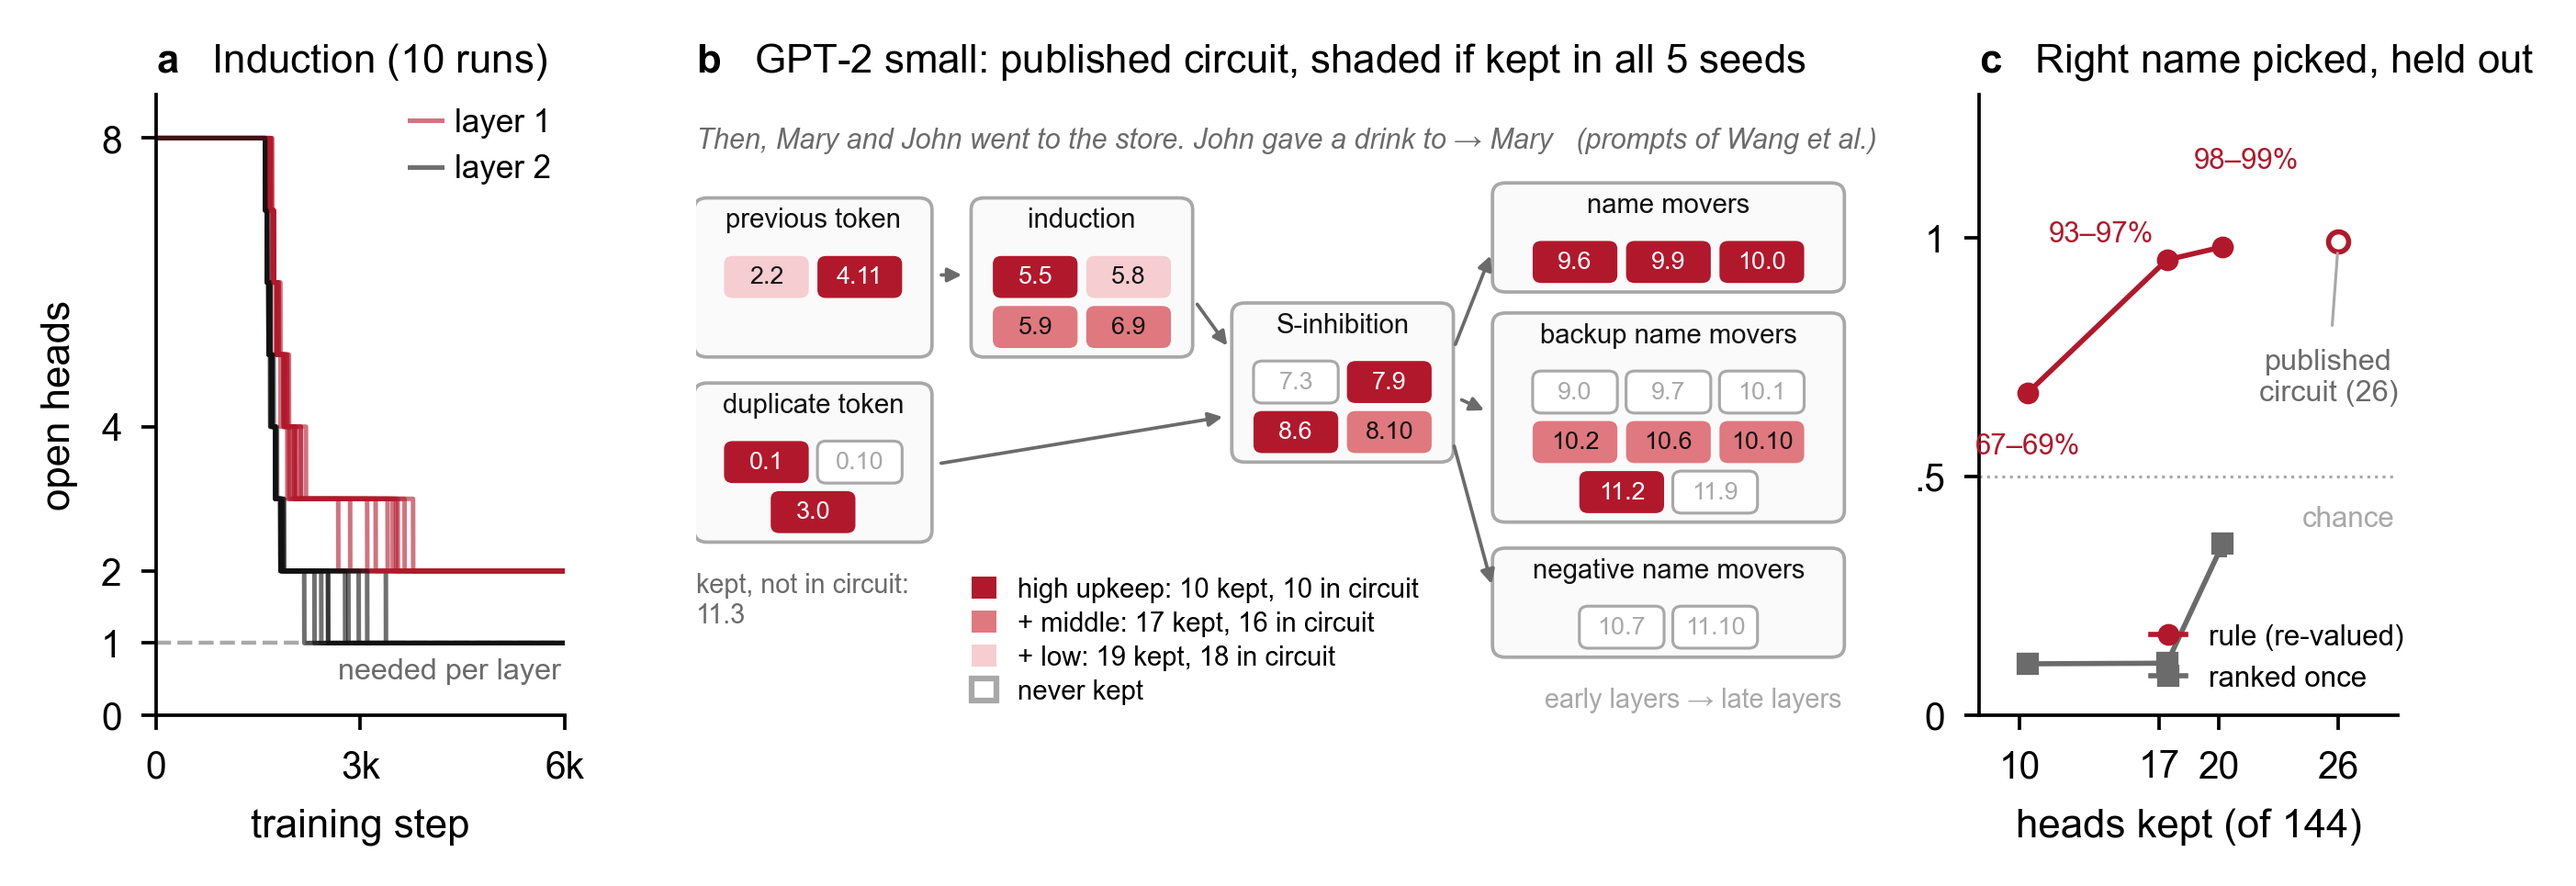
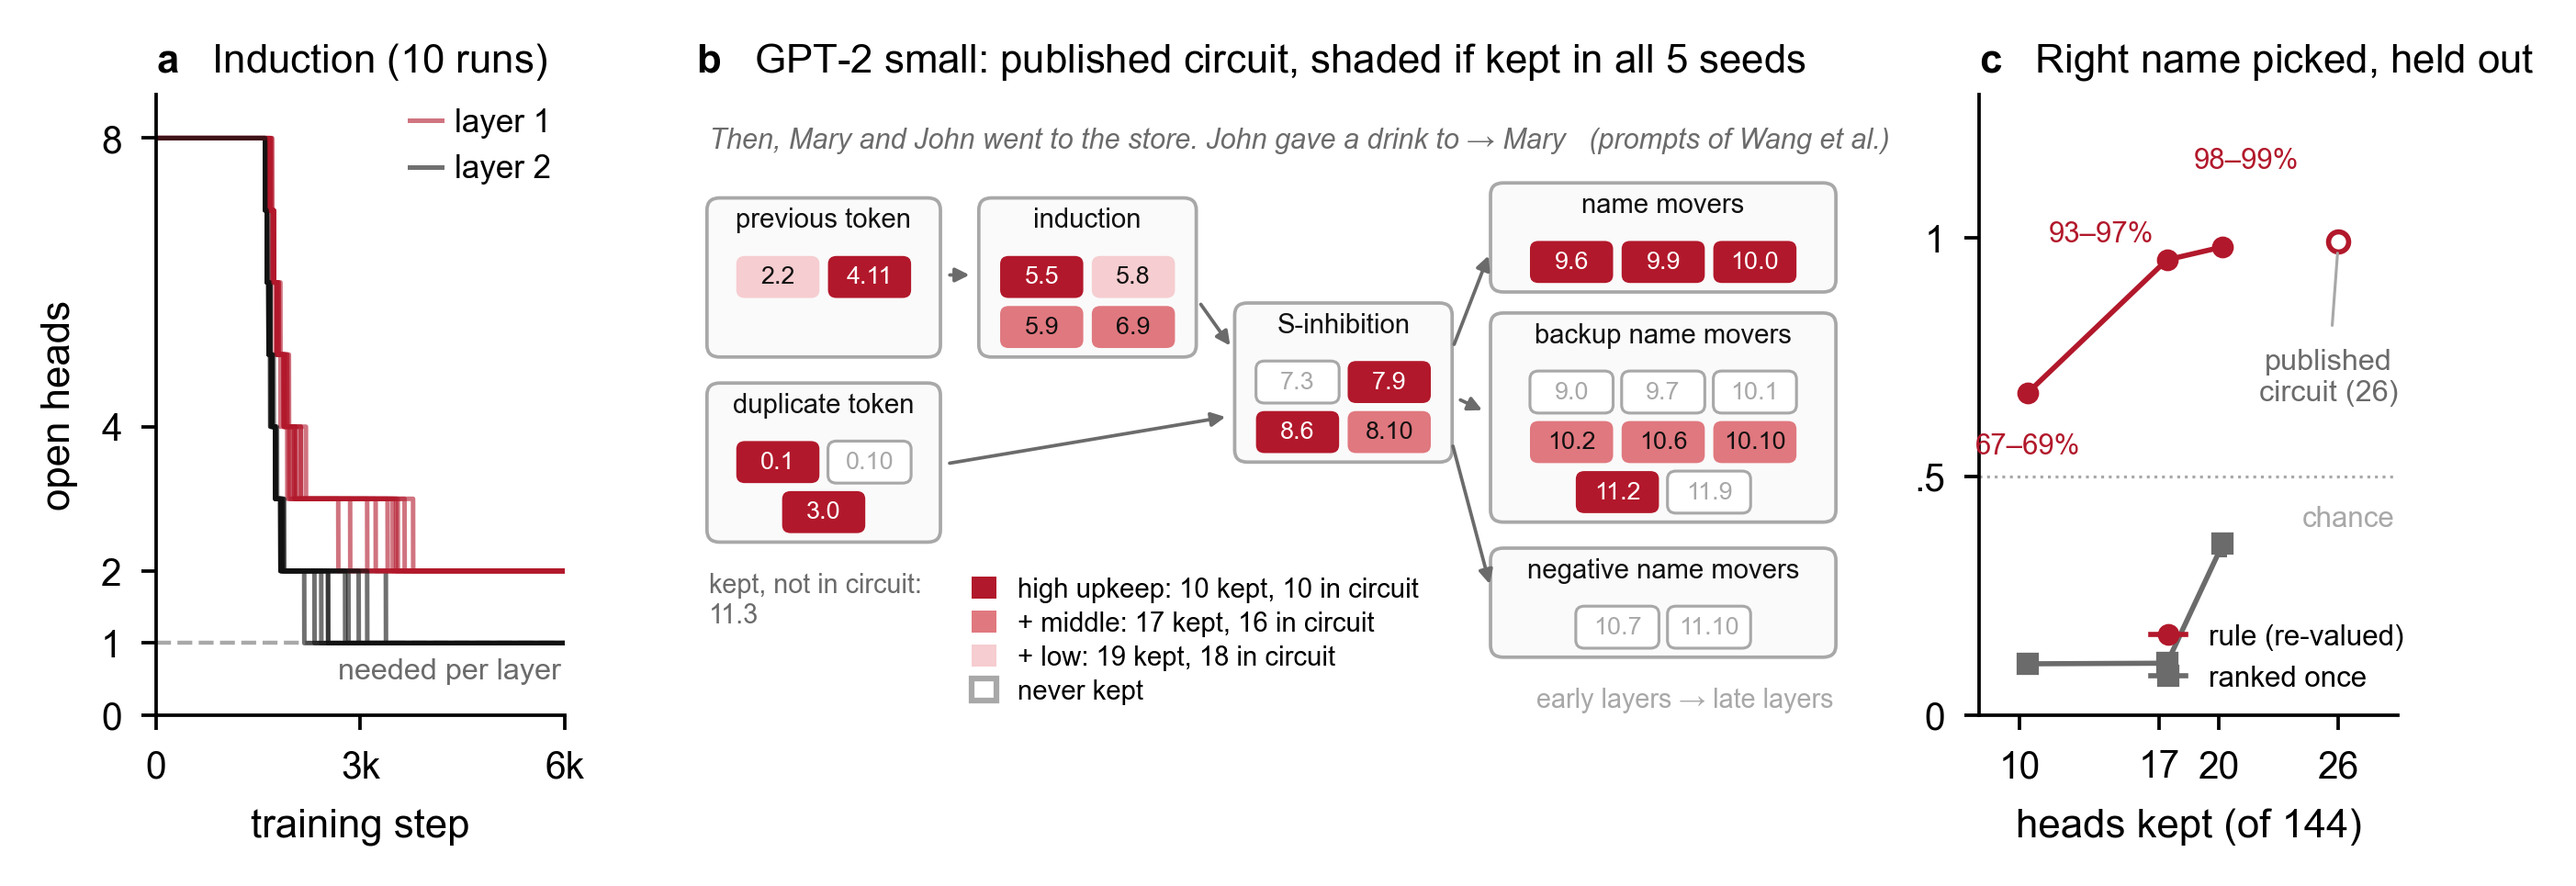
Workshop paper: unclipped GPT-2 panel, training settings stated, untuned-settings note

diff --git a/paper/neuroai/main_simple.tex b/paper/neuroai/main_simple.tex
@@ -125,7 +125,7 @@ collaterals where occlusion likely & backups where failure likely \\
 
 \paragraph{Collateral value.} For the set $S$ of open heads, let $L^\ast(S)=\min_{W_O} L$ be the loss after the output weights of the heads in $S$ are re-fitted. The value of an open head is $v_h=L^\ast(S\setminus h)-L^\ast(S)$ and the gain of a closed head is $L^\ast(S)-L^\ast(S\cup h)$, both in closed form from the heads' output covariance. This is the Optimal Brain Surgeon score \citep{obs} for whole heads, as in ZipLM \citep{ziplm}; what is new is how it is used. If two heads output the same signal, the survivor takes over its twin's weight and the loss does not change, so a copy is worth nothing.
 
-\paragraph{Schedule.} All valves start open. After a warm-up of 10\% of training, every 25 steps the rule closes the lowest-valued open head if $v_h<\pi$, and otherwise reopens the highest-gain closed head if its gain exceeds $2\pi$. A closing valve falls by $1/100$ per step, so a head regresses while the others adapt. The upkeep is $\pi=0.03\,\Ltriv$, where $\Ltriv$ is the loss of predicting the mean.
+\paragraph{Schedule.} All valves start open. After a warm-up of 10\% of training, every 25 steps the rule closes the lowest-valued open head if $v_h<\pi$, and otherwise reopens the highest-gain closed head if its gain exceeds $2\pi$. A closing valve falls by $1/100$ per step, so a head regresses while the others adapt. These settings were not tuned. The upkeep is $\pi=0.03\,\Ltriv$, where $\Ltriv$ is the loss of predicting the mean.
 
 \paragraph{The rule optimizes an objective.} Let $J(S)=L^\ast(S)+\pi|S|$, the loss plus the upkeep of the open heads, the form of Murray's cost (Figure~\ref{fig:murray}b).
 \begin{proposition}
@@ -140,7 +140,7 @@ The task adapts sparse retrieval \citep{sanford2023representational} so that the
 L^\ast(k)=\left(1-k/R\right)\Ltriv ,
 \label{eq:law}
 \end{equation}
-confirmed on trained models to within $0.003\,\Ltriv$ (Figure~\ref{fig:task}c). Each needed head is worth $\Ltriv/R$ and each copy $0$, so Proposition~1 predicts exactly $\kstar=R$ heads for any $\pi<\Ltriv/R$, and above it a collapse to the single head the rule never closes. The model is one cross-attention layer with $H=32$ heads, width 128 and no MLP. The task is solved when the loss is below $0.02\,\Ltriv$. \emph{Exact count} means the open heads over the last 40\% of training equal $\kstar$; \emph{stayed solved} means that once solved, the loss never rises above the bar again.
+confirmed on trained models to within $0.003\,\Ltriv$ (Figure~\ref{fig:task}c). Each needed head is worth $\Ltriv/R$ and each copy $0$, so Proposition~1 predicts exactly $\kstar=R$ heads for any $\pi<\Ltriv/R$, and above it a collapse to the single head the rule never closes. The model is one cross-attention layer with $H=32$ heads, width 128 and no MLP, trained with AdamW (learning rate $2\times10^{-3}$, batch 128, 4000 steps). The task is solved when the loss is below $0.02\,\Ltriv$. \emph{Exact count} means the open heads over the last 40\% of training equal $\kstar$; \emph{stayed solved} means that once solved, the loss never rises above the bar again.
 
 \section{Results}
 
@@ -167,16 +167,16 @@ $L_0$ gates, strong penalty & no & 9 & 0 \\
 \label{tab:methods}
 \end{table}
 
-\paragraph{Exact count while the task stays solved.} The rule kept exactly $\kstar$ heads in 29 of 30 runs, and the loss never left the solved range (Figure~\ref{fig:results}a, Table~\ref{tab:methods}). No published method did both. Michel et al.\ and ZipLM, given the true count, lost the solution during pruning in every run: the loss rose to a median of $0.52$ and $0.38\,\Ltriv$ before further training recovered it, and all runs ended solved. ZipLM uses our score, so its failure lies in how the score is used: all at once, without a fade. $L_0$ gates trade one failure for the other: a weak penalty kept the loss near the bar but never reached the count, and a strong one reached it in 9 runs but left 26 of 30 unsolved at the end. Removing one part at a time: without the fade the solution was lost, as with a vessel cut rather than regressed; without the re-fit the rule valued copies and kept too many heads; with a random choice of head the solution was lost in 24 of 30 runs. Deleting the closed heads leaves 6--25\% of the model's parameters (30\% for induction).
+\paragraph{Exact count while the task stays solved.} The rule kept exactly $\kstar$ heads in 29 of 30 runs, and the loss never left the solved range (Figure~\ref{fig:results}a, Table~\ref{tab:methods}). No published method did both. Michel et al.\ and ZipLM, given the true count, lost the solution during pruning in every run: the loss rose to a median of $0.52$ and $0.38\,\Ltriv$ before further training recovered it, and all runs ended solved. ZipLM uses our score, so its failure lies in how the score is used: all at once, without a fade. $L_0$ gates trade one failure for the other: a weak penalty kept the loss near the bar but never reached the count, and a strong one reached it in 9 runs but left 26 of 30 unsolved at the end. Removing one part at a time: without the fade the solution was lost, as with a vessel cut rather than regressed; without the re-fit the rule valued copies and kept too many heads; with a random choice of head the solution was lost in 24 of 30 runs. Deleting closed heads leaves 6--25\% of the parameters.
 
-\paragraph{The upkeep does not set the size, until theory says it should.} Every upkeep from $0.01$ to $0.1\,\Ltriv$ gave the exact count. Above $\pi=\Ltriv/R$ every needed head costs more than it saves, so the rule should close down to one head. All 18 runs below this point kept exactly $\kstar$ heads and all 18 above it kept one (Figure~\ref{fig:results}b), with final losses $0.50$, $0.75$ and $0.875\,\Ltriv$, Equation~\eqref{eq:law} at $k=1$.
+\paragraph{The upkeep does not set the size, until theory says it should.} Every upkeep from $0.01$ to $0.1\,\Ltriv$ gave the exact count. Above $\pi=\Ltriv/R$ every needed head costs more than it saves, so the rule should close down to one head. All 18 runs below this point kept exactly $\kstar$ heads and all 18 above it kept one (Figure~\ref{fig:results}b), with the final loss Equation~\eqref{eq:law} gives for one head.
 
 \paragraph{A third prediction: redundancy under failure.} The objective also says how much redundancy to keep. If each head fails independently with probability $p$ at every training step, the value of the $B$-th head is $v(B)=\frac{1-p}{R}\Pr[\mathrm{Bin}(B-1,1-p)<R]\,\Ltriv$: it pays only when it works and fewer than $R$ of the others do, a $k$-out-of-$n$ calculation from reliability theory \citep{barlow1965reliability}, and the rule should keep the largest $B$ with $v(B)\ge\pi$. There is no free parameter. We committed predictions for 100 new runs before starting them, over $\kstar=2,4,8$, $p$ from 0.05 to 0.3 and two upkeeps. 79 matched exactly and all 100 were within one head; keeping $\kstar$ heads, or enough that $\kstar$ work on average, would match 4 and about 33. This tests the objective where the answer is known; it is not a claim about language models.
 
 
 \paragraph{Induction.} A two-layer attention-only model with $8+8$ heads was trained to continue a repeated sequence. Its known circuit is a previous-token head in layer 1 and an induction head in layer 2 \citep{olsson2022}. Cross-entropy has no closed-form re-fit, so here a head is valued by the loss without it. The rule kept $2+1$ heads with the expected roles in 10 of 10 runs, and the task stayed solved (Figure~\ref{fig:circuits}a). The second layer-1 head acts as a backup, cutting errors on the repeat from 1 in 8 to 1 in 200. Switching off the layer-2 head dropped accuracy from 99.9\% to chance.
 
-\paragraph{GPT-2 small.} We applied the rule to the 144 heads of GPT-2 small on indirect object identification (``Then, Mary and John went to the store. John gave a drink to'' $\to$ ``Mary''), whose 26-head circuit was found by hand \citep{wang2023interpretability}. The weights were frozen, so this tests the valuing and re-valuing alone, without fade or reopening. Each of 5 seeds draws 300 prompts to choose heads and 1500 held-out prompts from the generator of \citet{wang2023interpretability}. A closed head is replaced by its mean output on prompts with three different names, and the upkeep is a fraction (0.05, 0.02, 0.01) of the loss gap between all heads closed and all open. Head values here are graded, without the benchmark's gap, so the upkeep acts as a dial. The rule kept 10--11, 17--18 and 20--21 heads at the three upkeeps, nested in every seed (Figure~\ref{fig:circuits}b). Of the heads kept, 94--100\% were in the published circuit; 19 were kept in all 5 seeds, the name movers in all 15 runs, and the negative name movers, which push against the correct name, in none. With 20--21 heads the rule picked the correct name in 98--99\% of held-out prompts, against 99.0--99.4\% for the published 26 heads and 99.1--99.8\% for the full model (Figure~\ref{fig:circuits}c). Re-valuing matters: at 17--18 heads the rule scored 93--97\%, and the same number ranked once by their removal from the full model 8--13\%, and ranking once misses early heads whose value is hidden while their backups are present. On the logit difference, the measure of \citet{wang2023interpretability}, the 20--21 heads recovered 121--124\% of the full model's, against 85--88\% for the published circuit, consistent with closing the negative name movers. The kept heads form a circuit for one task, not a smaller general model: with only them open, greater-than fell to the level of random sets of the same size and repeated tokens to 18\%. Closing them alone left greater-than at 100\% but cut repeated tokens from 83\% to 11--12\%, against 76--78\% when random sets of the same size were closed: the induction heads kept for this task are the ones repeated tokens rely on.
+\paragraph{GPT-2 small.} We applied the rule to the 144 heads of GPT-2 small on indirect object identification (Figure~\ref{fig:circuits}b), whose 26-head circuit was found by hand \citep{wang2023interpretability}. The weights were frozen, so this tests the valuing and re-valuing alone, without fade or reopening. Each of 5 seeds draws 300 prompts to choose heads and 1500 held-out prompts from the generator of \citet{wang2023interpretability}. A closed head is replaced by its mean output on prompts with three different names, and the upkeep is a fraction (0.05, 0.02, 0.01) of the loss gap between all heads closed and all open. Head values here are graded, without the benchmark's gap, so the upkeep acts as a dial. The rule kept 10--11, 17--18 and 20--21 heads at the three upkeeps, nested in every seed (Figure~\ref{fig:circuits}b). Of the heads kept, 94--100\% were in the published circuit; 19 were kept in all 5 seeds, the name movers in all 15 runs, and the negative name movers, which push against the correct name, in none. With 20--21 heads the rule picked the correct name in 98--99\% of held-out prompts, against 99.0--99.4\% for the published 26 heads and 99.1--99.8\% for the full model (Figure~\ref{fig:circuits}c). Re-valuing matters: at 17--18 heads the rule scored 93--97\%, and the same number ranked once by their removal from the full model 8--13\%, and ranking once misses early heads whose value is hidden while their backups are present. On the logit difference, the measure of \citet{wang2023interpretability}, the 20--21 heads recovered 121--124\% of the full model's, against 85--88\% for the published circuit, consistent with closing the negative name movers. The kept heads form a circuit for one task, not a smaller general model: with only them open, greater-than fell to the level of random sets of the same size and repeated tokens to 18\%. Closing them alone left greater-than at 100\% but cut repeated tokens from 83\% to 11--12\%, against 76--78\% when random sets of the same size were closed: the induction heads kept for this task are the ones repeated tokens rely on.
 
 \section{Discussion}
 
@@ -184,7 +184,7 @@ Because the rule minimizes a stated cost, it can be judged as a theory is, by pr
 
 \paragraph{For neuroscience.} The correspondence in Table~\ref{tab:bio} runs both ways. The same redundancy calculation would give the number of collateral vessels worth keeping from how often a vessel is occluded and what it costs to maintain: more where occlusion is likelier or tissue costlier to lose, none where upkeep exceeds the expected loss. That is a quantitative prediction about collateral supply that can be tested.
 
-\paragraph{Limitations and next steps.} The models we trained from scratch are small, so that their minimal circuits are known, and GPT-2 small was studied with frozen weights. The proposition covers fixed heads; the fade and warm-up are justified empirically. The redundancy prediction held on the benchmark but not in a first test on a small language model. Next is the rule during training of a language model.
+\paragraph{Limitations and next steps.} The models trained from scratch are small, so that their circuits are known; GPT-2 small was frozen. The proposition covers fixed heads; the fade and warm-up are justified empirically. The redundancy prediction held on the benchmark but not in a first test on a small language model. Next is the rule during training of a language model.
 
 \bibliography{refs}
 

diff --git a/experiments/figure_circuits_v4.py b/experiments/figure_circuits_v4.py
@@ -84,7 +84,7 @@ assert kept["0.05"] <= kept["0.02"] <= kept["0.01"], "not nested"
 # ---------------------------------------------------------------- b  circuit as a flow diagram
 from matplotlib.patches import FancyBboxPatch
 ax = fig.add_subplot(gs[1]); ax.axis("off")
-ax.set(xlim=(0, 10.6), ylim=(0, 6.2))
+ax.set(xlim=(-0.12, 10.68), ylim=(0, 6.2))
 tier = lambda h: next((f for f in FR if h in kept[f]), None)
 TXT = {"0.05": "white", "0.02": K, "0.01": K, None: G2}
 CW, CH = 0.78, 0.42                                             # chip size
